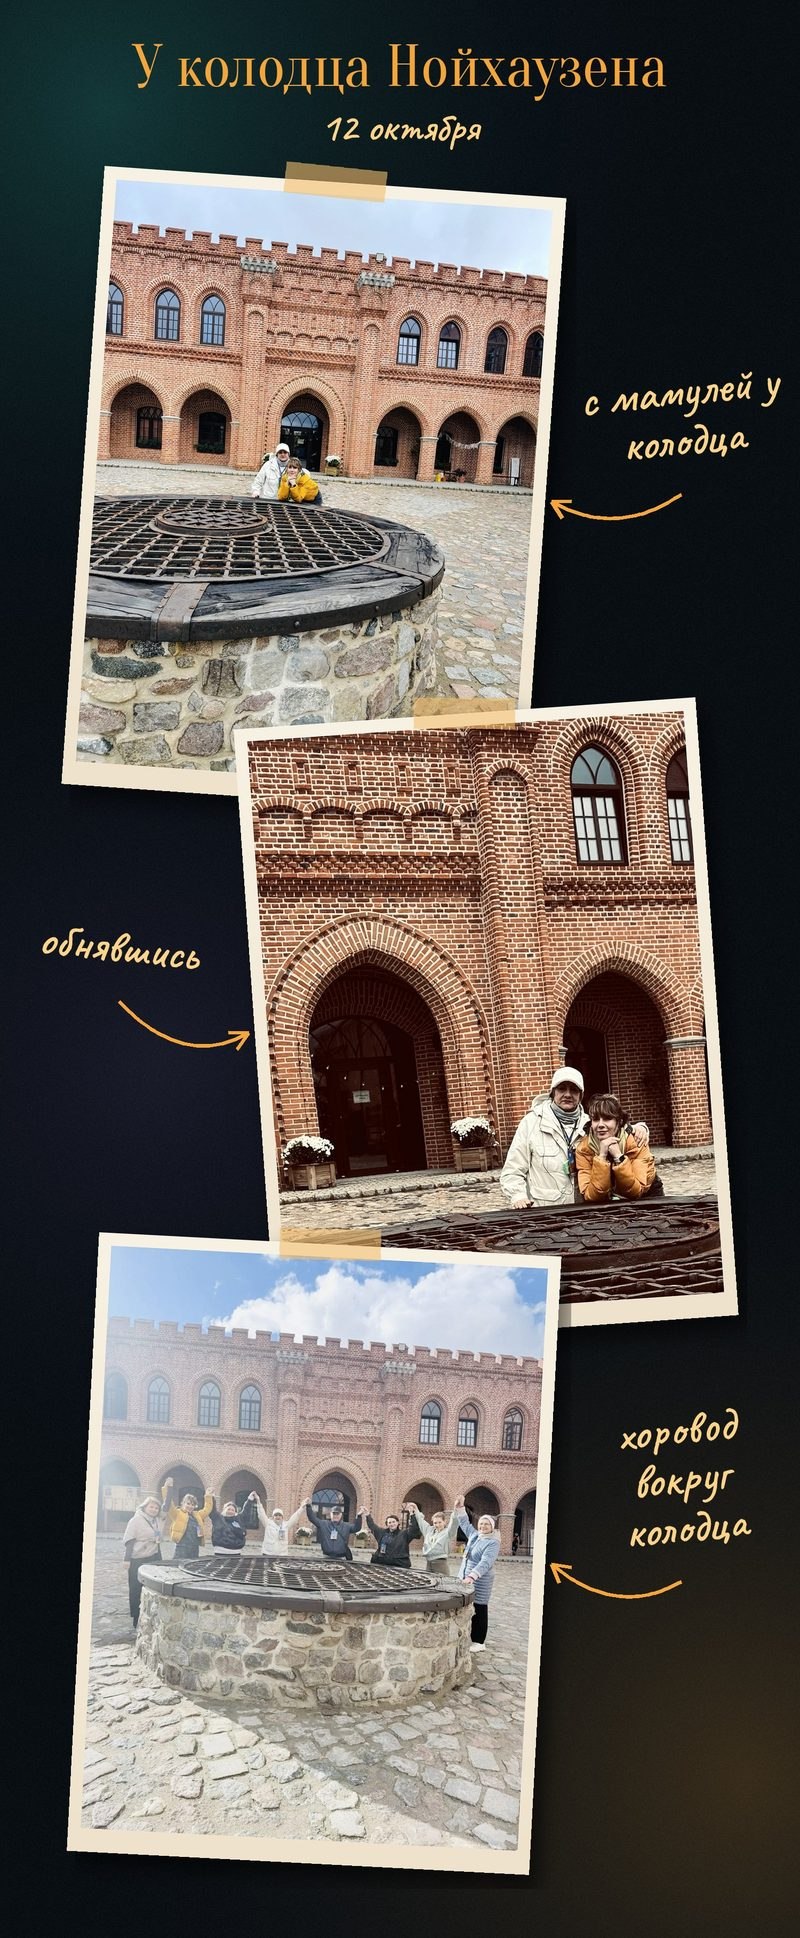
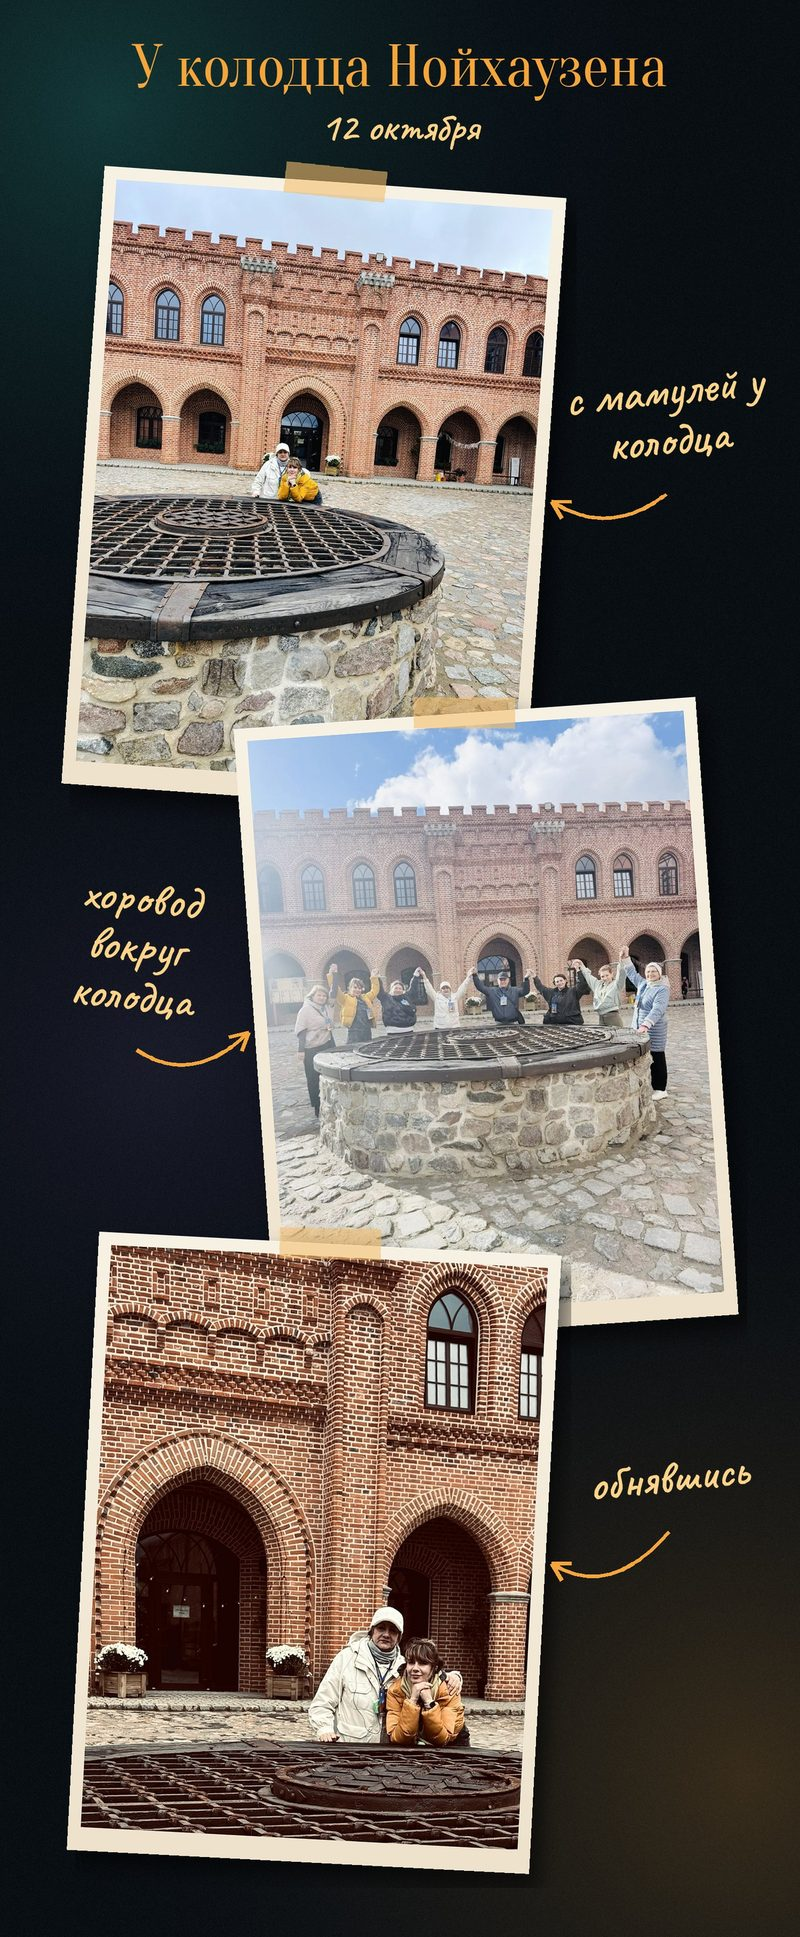
Альбом «Калининград»: страница «У колодца Нойхаузена» — хоровод в центре
По просьбе: сверху «с мамулей у колодца», в центре «хоровод вокруг колодца», снизу «обнявшись».

Claude-Session: https://claude.ai/code/session_01BUmNQ2Kk9fTi5P6tnA3gYJ

diff --git a/kaliningrad/album/index.html b/kaliningrad/album/index.html
@@ -689,7 +689,7 @@ body.picking .wrap{padding-bottom:calc(var(--nav-h) + 230px + env(safe-area-inse
  {"id": "d2-89", "day": 2, "src": "photos/d2-89.jpg?v=2", "thumb": "photos/t/d2-89.jpg?v=2", "w": 1200, "h": 2906, "place": "neuh", "title": "Таверна «Орден гуся»", "date": "2026-10-12", "collage": true},
  {"id": "d2-90", "day": 2, "src": "photos/d2-90.jpg?v=2", "thumb": "photos/t/d2-90.jpg?v=2", "w": 1200, "h": 2906, "place": "neuh", "title": "Осень в замке", "date": "2026-10-12", "collage": true},
  {"id": "d2-32", "day": 2, "src": "photos/d2-32.jpg", "thumb": "photos/t/d2-32.jpg", "w": 1500, "h": 2000, "place": "neuh", "title": "С мамулей у парка альпак, чёрно-белое", "date": "2026-10-12"},
- {"id": "d2-91", "day": 2, "src": "photos/d2-91.jpg", "thumb": "photos/t/d2-91.jpg", "w": 1200, "h": 2906, "place": "neuh", "title": "У колодца Нойхаузена", "date": "2026-10-12", "collage": true},
+ {"id": "d2-91", "day": 2, "src": "photos/d2-91.jpg?v=2", "thumb": "photos/t/d2-91.jpg?v=2", "w": 1200, "h": 2906, "place": "neuh", "title": "У колодца Нойхаузена", "date": "2026-10-12", "collage": true},
  {"id": "d2-35", "day": 2, "src": "photos/d2-35.jpg", "thumb": "photos/t/d2-35.jpg", "w": 1125, "h": 2000, "place": "neuh", "title": "Мамуля на старинной лестнице замка", "date": "2026-10-12"},
  {"id": "d2-36", "day": 2, "type": "video", "src": "photos/d2-36.mp4?v=2", "poster": "photos/d2-36.jpg", "thumb": "photos/t/d2-36.jpg", "w": 720, "h": 1280, "dur": 5.5, "muted": true, "place": "neuh", "title": "Мамуля поднимается по лестнице замка", "date": "2026-10-12", "time": "13:37"},
  {"id": "d2-92", "day": 2, "src": "photos/d2-92.jpg", "thumb": "photos/t/d2-92.jpg", "w": 1200, "h": 2906, "place": "neuh", "title": "Музей замка", "date": "2026-10-12", "collage": true},
